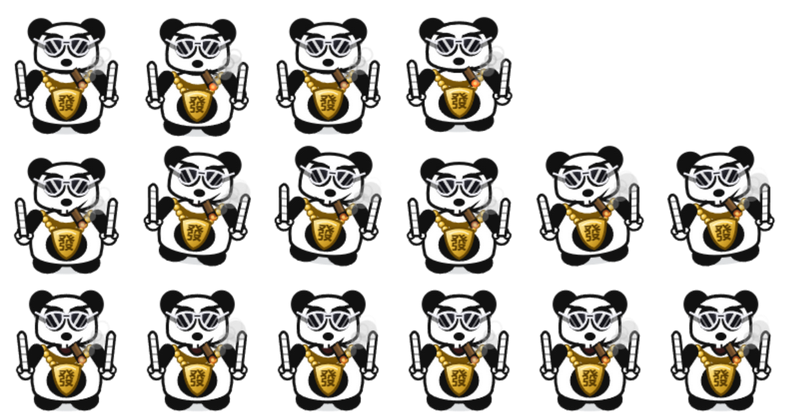
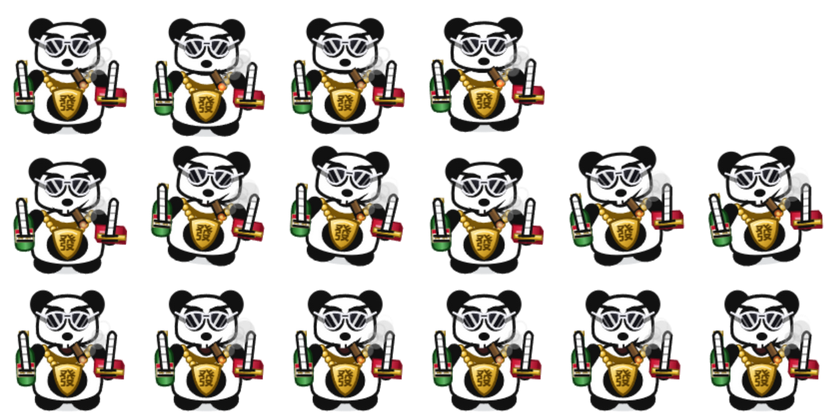
熊猫人：改抱啤酒瓶和一沓钞票，去掉比中指
比中指是「态度」，抱啤酒和钞票是「实力」，信息量也更大。

- 左手抱啤酒瓶：绿玻璃渐变 + 白色标签（红条 + 「啤酒」字样）
  + 金瓶盖 + 玻璃高光 + 瓶口泡沫，手指数两道压在瓶身上
- 右手抱一沓钞票：四张错叠的红钞（每张独立渐变）+ 金色捆扎带
  + 顶面 ¥ 圆标和防伪反光
- 手仍是白填充黑描边，手指用两道横线表现「抓着」

diff --git a/build/make-skins.js b/build/make-skins.js
@@ -504,7 +504,7 @@ function drawPanda(ctx, q, p, kind) {
       ctx.beginPath(); ctx.moveTo(a[0], a[1]); ctx.lineTo(a[2], a[3]); ctx.stroke();
     });
     /* 拳头 */
-    /* 整只手：白填充 + 黑描边（原来是实心黑，和黑胳膊糊在一起） */
+    /* ---- 手：白填充 + 黑描边 ---- */
     ctx.beginPath(); ctx.ellipse(hx, hy, 9, 8.5, 0, 0, TAU);
     ctx.fillStyle = '#FFFFFF'; ctx.fill();
     ctx.lineWidth = 3; ctx.strokeStyle = LINE; ctx.stroke();
@@ -513,6 +513,106 @@ function drawPanda(ctx, q, p, kind) {
       ctx.fillStyle = '#FFFFFF'; ctx.fill();
       ctx.lineWidth = 2.4; ctx.strokeStyle = LINE; ctx.stroke();
     });
+
+    if (sg < 0) {
+      /* ---- 左手抱啤酒瓶 ---- */
+      ctx.save();
+      ctx.translate(hx - 1, hy - 4);
+      ctx.rotate(-0.06);
+      /* 瓶身 */
+      ctx.beginPath();
+      ctx.moveTo(-11, 12);
+      ctx.lineTo(-11, -12);
+      ctx.quadraticCurveTo(-11, -21, -4.5, -25);
+      ctx.lineTo(-4.5, -40);
+      ctx.lineTo(4.5, -40);
+      ctx.lineTo(4.5, -25);
+      ctx.quadraticCurveTo(11, -21, 11, -12);
+      ctx.lineTo(11, 12);
+      ctx.quadraticCurveTo(11, 20, 0, 20);
+      ctx.quadraticCurveTo(-11, 20, -11, 12);
+      ctx.closePath();
+      const bg = ctx.createLinearGradient(-11, 0, 11, 0);
+      bg.addColorStop(0, '#1B5E20'); bg.addColorStop(0.35, '#43A047');
+      bg.addColorStop(0.55, '#66BB6A'); bg.addColorStop(1, '#14501A');
+      ctx.fillStyle = bg; ctx.fill();
+      ctx.lineWidth = 2.6; ctx.strokeStyle = '#0D3A12'; ctx.stroke();
+      /* 玻璃高光 */
+      ctx.fillStyle = 'rgba(255,255,255,.5)';
+      ctx.beginPath(); ctx.ellipse(-6, -4, 2, 12, 0.05, 0, TAU); ctx.fill();
+      /* 标签 */
+      ctx.fillStyle = '#F7F3E8';
+      ctx.beginPath(); ctx.rect(-10.5, -6, 21, 15); ctx.fill();
+      ctx.lineWidth = 1.8; ctx.strokeStyle = '#B9A97A'; ctx.stroke();
+      ctx.fillStyle = '#C8102E';
+      ctx.beginPath(); ctx.rect(-10.5, -6, 21, 4.5); ctx.fill();
+      ctx.fillStyle = '#8A6A12';
+      ctx.font = 'bold 7px "Microsoft YaHei",sans-serif';
+      ctx.textAlign = 'center'; ctx.textBaseline = 'middle';
+      ctx.fillText('啤 酒', 0, 3.5);
+      /* 瓶盖 */
+      ctx.fillStyle = '#F0C43A';
+      ctx.beginPath(); ctx.rect(-5.4, -44, 10.8, 5); ctx.fill();
+      ctx.lineWidth = 2; ctx.strokeStyle = '#8A6A12'; ctx.stroke();
+      ctx.fillStyle = '#FFF2B0';
+      ctx.beginPath(); ctx.rect(-4.6, -43.2, 9.2, 1.6); ctx.fill();
+      /* 泡沫 */
+      ctx.fillStyle = 'rgba(255,255,255,.9)';
+      [[-3, -47], [1.5, -48.5], [4, -46.6]].forEach(function (b) {
+        ctx.beginPath(); ctx.arc(b[0], b[1], 2.6, 0, TAU); ctx.fill();
+      });
+      ctx.restore();
+      /* 抓着瓶子的手指，压在瓶身前 */
+      ctx.strokeStyle = '#111111'; ctx.lineWidth = 3; ctx.lineCap = 'round';
+      [0, 6].forEach(function (dy) {
+        ctx.beginPath();
+        ctx.moveTo(hx - 9, hy + dy - 2);
+        ctx.lineTo(hx + 9, hy + dy - 2);
+        ctx.stroke();
+      });
+    } else {
+      /* ---- 右手抱一沓钞票 ---- */
+      ctx.save();
+      ctx.translate(hx + 1, hy - 2);
+      ctx.rotate(0.07);
+      /* 错叠的钞票 */
+      for (let i = 3; i >= 0; i--) {
+        const ox = (i - 1.5) * 1.1, oy = (i - 1.5) * 1.6;
+        ctx.beginPath();
+        ctx.rect(-17 + ox, -10 + oy, 34, 16);
+        const cg = ctx.createLinearGradient(-17 + ox, 0, 17 + ox, 0);
+        cg.addColorStop(0, i % 2 ? '#D9455F' : '#C8102E');
+        cg.addColorStop(0.5, i % 2 ? '#F0738A' : '#E0435F');
+        cg.addColorStop(1, i % 2 ? '#B22B45' : '#9E0C24');
+        ctx.fillStyle = cg; ctx.fill();
+        ctx.lineWidth = 1.8; ctx.strokeStyle = '#7A0A1C'; ctx.stroke();
+      }
+      /* 顶面那张的细节 */
+      ctx.fillStyle = '#FFE9B0';
+      ctx.beginPath(); ctx.arc(6 + 1.1, 0 + 2.4, 4.4, 0, TAU); ctx.fill();
+      ctx.strokeStyle = '#8A6A12'; ctx.lineWidth = 1.4; ctx.stroke();
+      ctx.fillStyle = '#8A6A12';
+      ctx.font = 'bold 7px "Microsoft YaHei",sans-serif';
+      ctx.textAlign = 'center'; ctx.textBaseline = 'middle';
+      ctx.fillText('¥', 6 + 1.1, 0 + 2.6);
+      ctx.fillStyle = 'rgba(255,255,255,.55)';
+      ctx.beginPath(); ctx.rect(-15 + 1.1, -8 + 2.4, 10, 3); ctx.fill();
+      /* 金色捆扎带 */
+      ctx.fillStyle = '#F0C43A';
+      ctx.beginPath(); ctx.rect(-17 + 1.1, -4 + 2.4, 34, 5.4); ctx.fill();
+      ctx.lineWidth = 1.8; ctx.strokeStyle = '#8A6A12'; ctx.stroke();
+      ctx.fillStyle = '#FFF2B0';
+      ctx.beginPath(); ctx.rect(-16 + 1.1, -3.4 + 2.4, 32, 1.4); ctx.fill();
+      ctx.restore();
+      /* 抓着钞票的手指 */
+      ctx.strokeStyle = '#111111'; ctx.lineWidth = 3; ctx.lineCap = 'round';
+      [0, 6].forEach(function (dy) {
+        ctx.beginPath();
+        ctx.moveTo(hx - 9, hy + dy - 2);
+        ctx.lineTo(hx + 9, hy + dy - 2);
+        ctx.stroke();
+      });
+    }
     /* 中指：又长又粗还往外撇 —— 太细太短的话缩到桌面上就只剩个小凸起，
        根本看不出在比中指。让中指长度接近拳头直径的两倍。 */
     const out = sg * 5;
